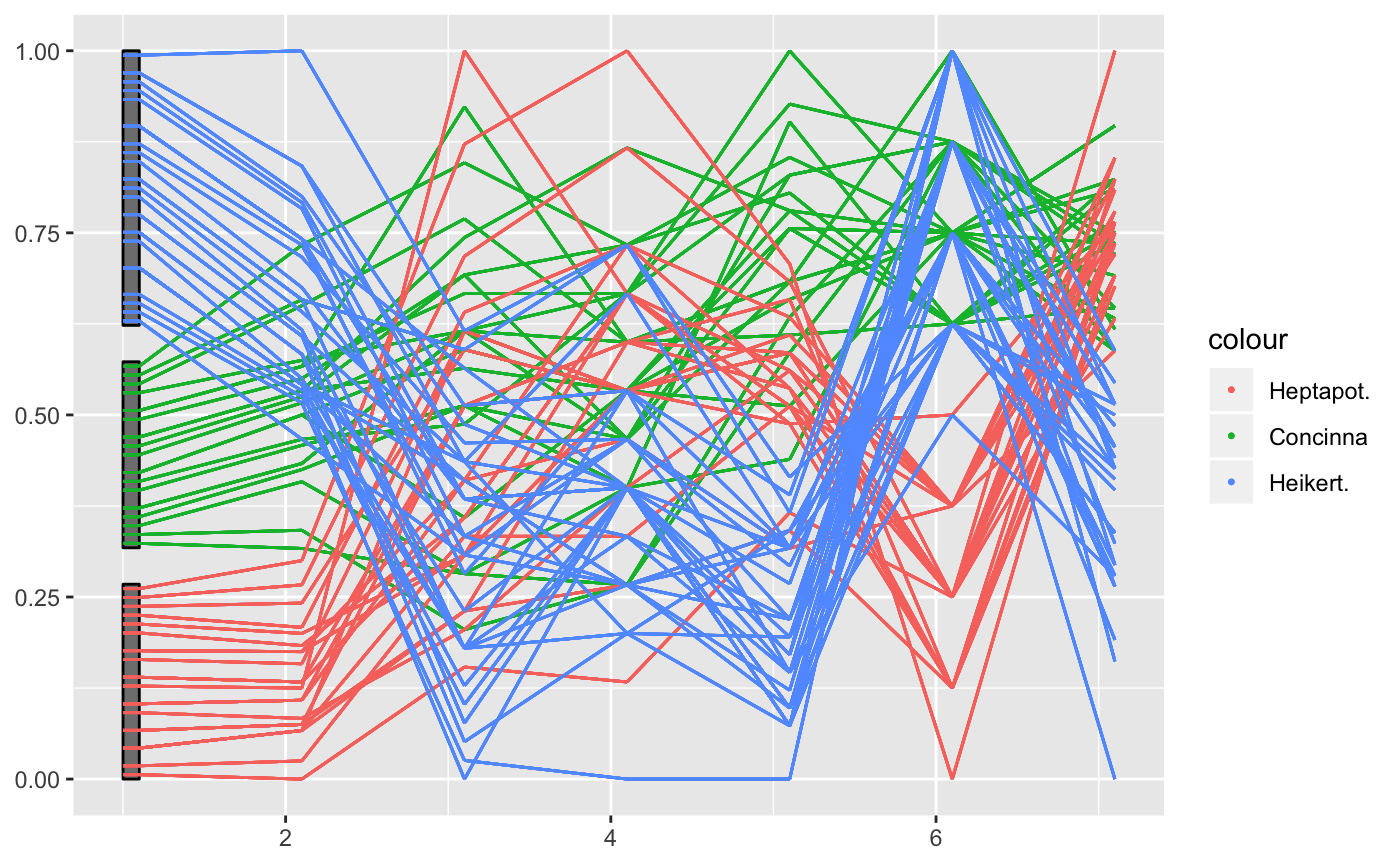
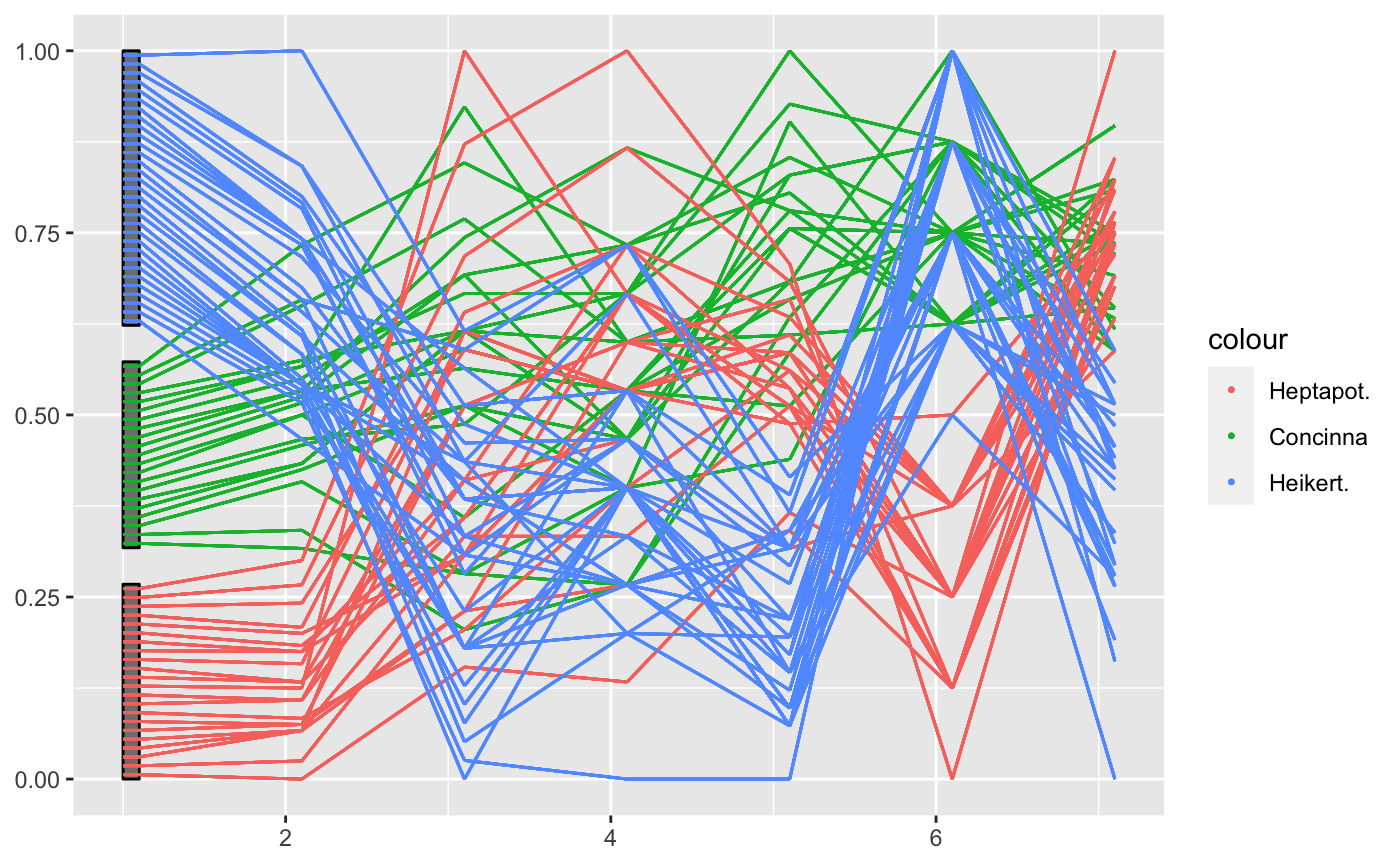
website update [skip ci]

diff --git a/docs/index.html b/docs/index.html
@@ -114,8 +114,59 @@
 <a class="sourceLine" id="cb5-9" title="9"><span class="st">  </span><span class="kw"><a href="reference/geom_pcp.html">geom_pcp</a></span>(<span class="kw">aes</span>(<span class="dt">colour =</span> Survived), <span class="dt">alpha =</span> <span class="fl">0.01</span>) <span class="op">+</span></a>
 <a class="sourceLine" id="cb5-10" title="10"><span class="st">  </span><span class="kw">scale_colour_manual</span>(<span class="dt">values=</span><span class="kw"><a href="https://www.rdocumentation.org/packages/base/topics/c">c</a></span>(<span class="st">"darkorange"</span>, <span class="st">"steelblue"</span>)) <span class="op">+</span></a>
 <a class="sourceLine" id="cb5-11" title="11"><span class="st">  </span><span class="kw">guides</span>(<span class="dt">colour=</span><span class="kw">guide_legend</span>(<span class="dt">override.aes =</span> <span class="kw"><a href="https://www.rdocumentation.org/packages/base/topics/list">list</a></span>(<span class="dt">alpha=</span><span class="dv">1</span>))) <span class="op">+</span></a>
-<a class="sourceLine" id="cb5-12" title="12"><span class="st">  </span><span class="kw">scale_x_continuous</span>(<span class="dt">breaks=</span><span class="dv">1</span><span class="op">:</span><span class="dv">4</span>, <span class="dt">labels=</span><span class="kw"><a href="https://www.rdocumentation.org/packages/base/topics/c">c</a></span>(<span class="kw"><a href="https://www.rdocumentation.org/packages/base/topics/names">names</a></span>(titanic)))</a></code></pre></div>
+<a class="sourceLine" id="cb5-12" title="12"><span class="st">  </span><span class="kw">scale_x_continuous</span>(<span class="dt">breaks=</span><span class="dv">1</span><span class="op">:</span><span class="dv">4</span>, <span class="dt">labels=</span><span class="kw"><a href="https://www.rdocumentation.org/packages/base/topics/c">c</a></span>(<span class="kw"><a href="https://www.rdocumentation.org/packages/base/topics/names">names</a></span>(titanic))) </a></code></pre></div>
 <p><img src="index_files/figure-html/unnamed-chunk-5-1.png" width="700"></p>
+<p>By setting break points between blocks of categorical variables, we can focus on the two-dimensional relationship between variables on adjacent axes:</p>
+<div class="sourceCode" id="cb6"><pre class="sourceCode r"><code class="sourceCode r"><a class="sourceLine" id="cb6-1" title="1">titanic <span class="op">%&gt;%</span><span class="st"> </span></a>
+<a class="sourceLine" id="cb6-2" title="2"><span class="st">  </span><span class="kw"><a href="reference/gather_pcp.html">gather_pcp</a></span>(<span class="dv">1</span><span class="op">:</span><span class="dv">4</span>) <span class="op">%&gt;%</span></a>
+<a class="sourceLine" id="cb6-3" title="3"><span class="st">  </span><span class="kw">ggplot</span>(<span class="kw">aes</span>(<span class="dt">id =</span> id, <span class="dt">name =</span> name, <span class="dt">value =</span> value, <span class="dt">level =</span> level, <span class="dt">class =</span> class)) <span class="op">+</span><span class="st"> </span></a>
+<a class="sourceLine" id="cb6-4" title="4"><span class="st">  </span><span class="kw"><a href="reference/geom_pcp.html">geom_pcp</a></span>(<span class="kw">aes</span>(<span class="dt">colour =</span> Class), <span class="dt">alpha =</span> <span class="fl">0.01</span>, <span class="dt">breaks=</span><span class="dv">2</span><span class="op">:</span><span class="dv">3</span>) <span class="op">+</span></a>
+<a class="sourceLine" id="cb6-5" title="5"><span class="co">#  scale_colour_manual(values=c("darkorange", "steelblue")) +</span></a>
+<a class="sourceLine" id="cb6-6" title="6"><span class="st">  </span><span class="kw">guides</span>(<span class="dt">colour=</span><span class="kw">guide_legend</span>(<span class="dt">override.aes =</span> <span class="kw"><a href="https://www.rdocumentation.org/packages/base/topics/list">list</a></span>(<span class="dt">alpha=</span><span class="dv">1</span>))) <span class="op">+</span></a>
+<a class="sourceLine" id="cb6-7" title="7"><span class="st">  </span><span class="kw">scale_x_continuous</span>(<span class="dt">breaks=</span><span class="dv">1</span><span class="op">:</span><span class="dv">4</span>, <span class="dt">labels=</span><span class="kw"><a href="https://www.rdocumentation.org/packages/base/topics/c">c</a></span>(<span class="kw"><a href="https://www.rdocumentation.org/packages/base/topics/names">names</a></span>(titanic)))</a></code></pre></div>
+<p><img src="index_files/figure-html/unnamed-chunk-6-1.png" width="700"></p>
+<p>To combine the option of tracking individuals with the focus on 2d relationships between axes, we introduce a box for each axis to allow the tracking. For the thousands of people on board the Titanic individual tracking is tricky, but with good eyesight and a large screen still manageable :)</p>
+<div class="sourceCode" id="cb7"><pre class="sourceCode r"><code class="sourceCode r"><a class="sourceLine" id="cb7-1" title="1">titanic <span class="op">%&gt;%</span><span class="st"> </span></a>
+<a class="sourceLine" id="cb7-2" title="2"><span class="st">  </span><span class="kw"><a href="reference/gather_pcp.html">gather_pcp</a></span>(<span class="dv">1</span><span class="op">:</span><span class="dv">4</span>) <span class="op">%&gt;%</span></a>
+<a class="sourceLine" id="cb7-3" title="3"><span class="st">  </span><span class="kw">ggplot</span>(<span class="kw">aes</span>(<span class="dt">id =</span> id, <span class="dt">name =</span> name, <span class="dt">value =</span> value, <span class="dt">level =</span> level, <span class="dt">class =</span> class)) <span class="op">+</span><span class="st"> </span></a>
+<a class="sourceLine" id="cb7-4" title="4"><span class="st">  </span><span class="kw"><a href="reference/geom_pcp_box.html">geom_pcp_box</a></span>(<span class="dt">boxwidth=</span><span class="fl">0.1</span>, <span class="dt">fill=</span><span class="ot">NA</span>) <span class="op">+</span></a>
+<a class="sourceLine" id="cb7-5" title="5"><span class="st">  </span><span class="kw"><a href="reference/geom_pcp.html">geom_pcp</a></span>(<span class="kw">aes</span>(<span class="dt">colour =</span> Class), <span class="dt">alpha =</span> <span class="fl">0.01</span>, <span class="dt">boxwidth=</span><span class="fl">0.1</span>, <span class="dt">breaks=</span><span class="dv">2</span><span class="op">:</span><span class="dv">3</span>) <span class="op">+</span></a>
+<a class="sourceLine" id="cb7-6" title="6"><span class="st">  </span><span class="kw">guides</span>(<span class="dt">colour=</span><span class="kw">guide_legend</span>(<span class="dt">override.aes =</span> <span class="kw"><a href="https://www.rdocumentation.org/packages/base/topics/list">list</a></span>(<span class="dt">alpha=</span><span class="dv">1</span>))) <span class="op">+</span></a>
+<a class="sourceLine" id="cb7-7" title="7"><span class="st">  </span><span class="kw">scale_x_continuous</span>(<span class="dt">breaks=</span><span class="dv">1</span><span class="op">:</span><span class="dv">4</span><span class="op">+</span><span class="st"> </span><span class="dv">1</span><span class="op">:</span><span class="dv">4</span><span class="op">*</span><span class="fl">0.1-0.05</span>, <span class="dt">labels=</span><span class="kw"><a href="https://www.rdocumentation.org/packages/base/topics/c">c</a></span>(<span class="kw"><a href="https://www.rdocumentation.org/packages/base/topics/names">names</a></span>(titanic)))</a></code></pre></div>
+<p><img src="index_files/figure-html/unnamed-chunk-7-1.png" width="700"></p>
+</div>
+<div id="mixed-data-categorical-and-numeric-variables" class="section level2">
+<h2 class="hasAnchor">
+<a href="#mixed-data-categorical-and-numeric-variables" class="anchor"></a>Mixed data: categorical and numeric variables</h2>
+<p>The <code>mtcars</code> data is terribly old, but serves a good purpose here. All of the variables are coded as numeric variables, even when they should, in fact, be factor variables. In a standard parallel coordinate plot we get the usual uninformative fishnet between categorical variables such as <code>vs</code>, <code>am</code>, and <code>gear</code>, but also visible for variable <code>cyl</code>:</p>
+<div class="sourceCode" id="cb8"><pre class="sourceCode r"><code class="sourceCode r"><a class="sourceLine" id="cb8-1" title="1">mtcars <span class="op">%&gt;%</span><span class="st"> </span></a>
+<a class="sourceLine" id="cb8-2" title="2"><span class="st">  </span><span class="kw"><a href="reference/gather_pcp.html">gather_pcp</a></span>(<span class="dv">1</span><span class="op">:</span><span class="kw"><a href="https://www.rdocumentation.org/packages/base/topics/nrow">ncol</a></span>(mtcars)) <span class="op">%&gt;%</span></a>
+<a class="sourceLine" id="cb8-3" title="3"><span class="st">  </span><span class="kw">group_by</span>(name) <span class="op">%&gt;%</span><span class="st">  </span><span class="co"># should go into transformation</span></a>
+<a class="sourceLine" id="cb8-4" title="4"><span class="st">  </span><span class="kw">mutate</span>(<span class="dt">value =</span> (level<span class="op">-</span><span class="kw"><a href="https://www.rdocumentation.org/packages/base/topics/Extremes">min</a></span>(level))<span class="op">/</span>(<span class="kw"><a href="https://www.rdocumentation.org/packages/base/topics/Extremes">max</a></span>(level)<span class="op">-</span><span class="kw"><a href="https://www.rdocumentation.org/packages/base/topics/Extremes">min</a></span>(level))) <span class="op">%&gt;%</span></a>
+<a class="sourceLine" id="cb8-5" title="5"><span class="st">  </span><span class="kw">ggplot</span>(<span class="kw">aes</span>(<span class="dt">id =</span> id, <span class="dt">name =</span> name, <span class="dt">value =</span> value, <span class="dt">level =</span> level, <span class="dt">class =</span> class)) <span class="op">+</span></a>
+<a class="sourceLine" id="cb8-6" title="6"><span class="st">  </span><span class="kw"><a href="reference/geom_pcp.html">geom_pcp</a></span>(<span class="kw">aes</span>(<span class="dt">colour =</span> mpg)) <span class="op">+</span></a>
+<a class="sourceLine" id="cb8-7" title="7"><span class="st">  </span><span class="kw">scale_x_continuous</span>(<span class="dt">breaks=</span><span class="dv">1</span><span class="op">:</span><span class="kw"><a href="https://www.rdocumentation.org/packages/base/topics/nrow">ncol</a></span>(mtcars), <span class="dt">labels=</span><span class="kw"><a href="https://www.rdocumentation.org/packages/base/topics/c">c</a></span>(<span class="kw"><a href="https://www.rdocumentation.org/packages/base/topics/names">names</a></span>(mtcars)))</a></code></pre></div>
+<p><img src="index_files/figure-html/unnamed-chunk-8-1.png" width="700"></p>
+<p>Once the variables are coded properly as factor variables, we get a much more informative view:</p>
+<div class="sourceCode" id="cb9"><pre class="sourceCode r"><code class="sourceCode r"><a class="sourceLine" id="cb9-1" title="1">mtcars <span class="op">%&gt;%</span><span class="st"> </span></a>
+<a class="sourceLine" id="cb9-2" title="2"><span class="st">  </span><span class="kw">mutate</span>(<span class="dt">cyl =</span> <span class="kw"><a href="https://www.rdocumentation.org/packages/base/topics/factor">factor</a></span>(cyl),</a>
+<a class="sourceLine" id="cb9-3" title="3">         <span class="dt">vs =</span> <span class="kw"><a href="https://www.rdocumentation.org/packages/base/topics/factor">factor</a></span>(vs),</a>
+<a class="sourceLine" id="cb9-4" title="4">         <span class="dt">am =</span> <span class="kw"><a href="https://www.rdocumentation.org/packages/base/topics/factor">factor</a></span>(am),</a>
+<a class="sourceLine" id="cb9-5" title="5">         <span class="dt">gear=</span><span class="kw"><a href="https://www.rdocumentation.org/packages/base/topics/factor">factor</a></span>(gear),</a>
+<a class="sourceLine" id="cb9-6" title="6">         <span class="dt">carb =</span> <span class="kw"><a href="https://www.rdocumentation.org/packages/base/topics/factor">factor</a></span>(carb)) <span class="op">%&gt;%</span></a>
+<a class="sourceLine" id="cb9-7" title="7"><span class="st">  </span><span class="kw"><a href="reference/gather_pcp.html">gather_pcp</a></span>(<span class="dv">1</span><span class="op">:</span><span class="kw"><a href="https://www.rdocumentation.org/packages/base/topics/nrow">ncol</a></span>(mtcars)) <span class="op">%&gt;%</span></a>
+<a class="sourceLine" id="cb9-8" title="8"><span class="st">  </span><span class="kw">group_by</span>(name) <span class="op">%&gt;%</span><span class="st">  </span><span class="co"># should go into transformation</span></a>
+<a class="sourceLine" id="cb9-9" title="9"><span class="st">  </span><span class="kw">mutate</span>(<span class="dt">value =</span> (level<span class="op">-</span><span class="kw"><a href="https://www.rdocumentation.org/packages/base/topics/Extremes">min</a></span>(level))<span class="op">/</span>(<span class="kw"><a href="https://www.rdocumentation.org/packages/base/topics/Extremes">max</a></span>(level)<span class="op">-</span><span class="kw"><a href="https://www.rdocumentation.org/packages/base/topics/Extremes">min</a></span>(level))) <span class="op">%&gt;%</span></a>
+<a class="sourceLine" id="cb9-10" title="10"><span class="st">  </span><span class="kw">ggplot</span>(<span class="kw">aes</span>(<span class="dt">id =</span> id, <span class="dt">name =</span> name, <span class="dt">value =</span> value, <span class="dt">level =</span> level, <span class="dt">class =</span> class)) <span class="op">+</span></a>
+<a class="sourceLine" id="cb9-11" title="11"><span class="st">  </span><span class="kw"><a href="reference/geom_pcp_box.html">geom_pcp_box</a></span>(<span class="dt">boxwidth=</span><span class="fl">0.1</span>, <span class="dt">fill=</span><span class="ot">NA</span>, <span class="dt">colour=</span><span class="st">"grey70"</span>) <span class="op">+</span></a>
+<a class="sourceLine" id="cb9-12" title="12"><span class="st">  </span><span class="kw"><a href="reference/geom_pcp.html">geom_pcp</a></span>(<span class="kw">aes</span>(<span class="dt">colour =</span> mpg), <span class="dt">boxwidth=</span><span class="fl">0.1</span>, <span class="dt">breaks=</span><span class="dv">9</span><span class="op">:</span><span class="dv">10</span>, <span class="dt">size=</span><span class="dv">1</span>, <span class="dt">alpha =</span><span class="fl">0.9</span>) <span class="op">+</span></a>
+<a class="sourceLine" id="cb9-13" title="13"><span class="st">  </span><span class="kw">scale_x_continuous</span>(<span class="dt">breaks=</span><span class="dv">1</span><span class="op">:</span><span class="kw"><a href="https://www.rdocumentation.org/packages/base/topics/nrow">ncol</a></span>(mtcars) <span class="op">+</span><span class="st"> </span></a>
+<a class="sourceLine" id="cb9-14" title="14"><span class="st">                       </span><span class="fl">0.1</span><span class="op">*</span><span class="kw"><a href="https://www.rdocumentation.org/packages/base/topics/cumsum">cumsum</a></span>(<span class="kw"><a href="https://www.rdocumentation.org/packages/base/topics/c">c</a></span>(<span class="dv">0</span>,<span class="dv">1</span>, <span class="dv">0</span>,<span class="dv">0</span>,<span class="dv">0</span>,<span class="dv">0</span>,<span class="dv">0</span>,<span class="dv">1</span>,<span class="dv">1</span>,<span class="dv">1</span>,<span class="dv">1</span>)) <span class="op">-</span></a>
+<a class="sourceLine" id="cb9-15" title="15"><span class="st">                       </span><span class="fl">0.05</span><span class="op">*</span><span class="kw"><a href="https://www.rdocumentation.org/packages/base/topics/c">c</a></span>(<span class="dv">0</span>,<span class="dv">1</span>, <span class="dv">0</span>,<span class="dv">0</span>,<span class="dv">0</span>,<span class="dv">0</span>,<span class="dv">0</span>,<span class="dv">1</span>,<span class="dv">1</span>,<span class="dv">1</span>,<span class="dv">1</span>), <span class="dt">labels=</span><span class="kw"><a href="https://www.rdocumentation.org/packages/base/topics/c">c</a></span>(<span class="kw"><a href="https://www.rdocumentation.org/packages/base/topics/names">names</a></span>(mtcars))) <span class="op">+</span></a>
+<a class="sourceLine" id="cb9-16" title="16"><span class="st">  </span><span class="kw">scale_colour_gradient2</span>(<span class="st">"mpg"</span>, <span class="dt">mid=</span><span class="st">"grey50"</span>, <span class="dt">midpoint =</span> <span class="dv">20</span>) <span class="op">+</span></a>
+<a class="sourceLine" id="cb9-17" title="17"><span class="st">  </span><span class="kw">theme_bw</span>()</a></code></pre></div>
+<p><img src="index_files/figure-html/unnamed-chunk-9-1.png" width="700"></p>
+<p>What becomes obvious in this plot, is that the miles per gallons (mpg) for each - encoded as the first variable in the plot and as color of the lines - is correlated strongly with all of the variables, not just the numeric variables. A large number of cylinders (cyl), a V-shaped engine (vs = 0), an automatic transmission (am = 0), a low number of forward gears and a high number of carburetors are related to a low value of mpg (red lines).</p>
 </div>
 </div>
 <div id="related-work" class="section level1">
@@ -133,10 +184,10 @@
 <li>Hofmann H., Vendettuoli M.: Common Angle Plots as Perception-True Visualizations of Categorical Associations, IEEE Transactions on Visualization and Computer Graphics, 19(12), 2297-2305, 2013.</li>
 <li>Inselberg A., The Plane with Parallel Coordinates, The Visual Computer, 1(2), 69-91, 1985.</li>
 <li>Kosara R., Bendix F., Hauser H., Parallel Sets: Interactive Exploration and Visual Analysis of Categorical Data, IEEE Transactions on Visualization and Computer Graphics, 12(4), 558-568, 2006.</li>
-<li>Wegman, E., Hyperdimensional Data Analysis Using Parallel Coordinates, JASA, 85(411), 664-675, 1990.</li>
 <li>Schloerke B., Crowley J., Cook D., Briatte F., Marbach M., Thoen E., Elberg ., Larmarange J.: GGally: Extension to ‘ggplot2’, R package version 1.4.0.</li>
 <li>Schonlau M.: Visualizing Categorical Data Arising in the Health Sciences Using Hammock Plots, Proc. of Section on Statistical Graphics ASA, 2003.</li>
 <li>Venables W.N., Ripley B.D.: Modern Applied Statistics with S (4th ed), Springer, 2002.</li>
+<li>Wegman, E., Hyperdimensional Data Analysis Using Parallel Coordinates, JASA, 85(411), 664-675, 1990.</li>
 <li>Wickham H., ggplot2: Elegant graphics for data analysis (2nd ed), Springer, 2016</li>
 <li>Wickham H., Tidy data. The Journal of Statistical Software, 59, 2014.</li>
 <li>Wilkinson L., The Grammar of Graphics. Statistics and Computing, Springer, 1999.</li>
